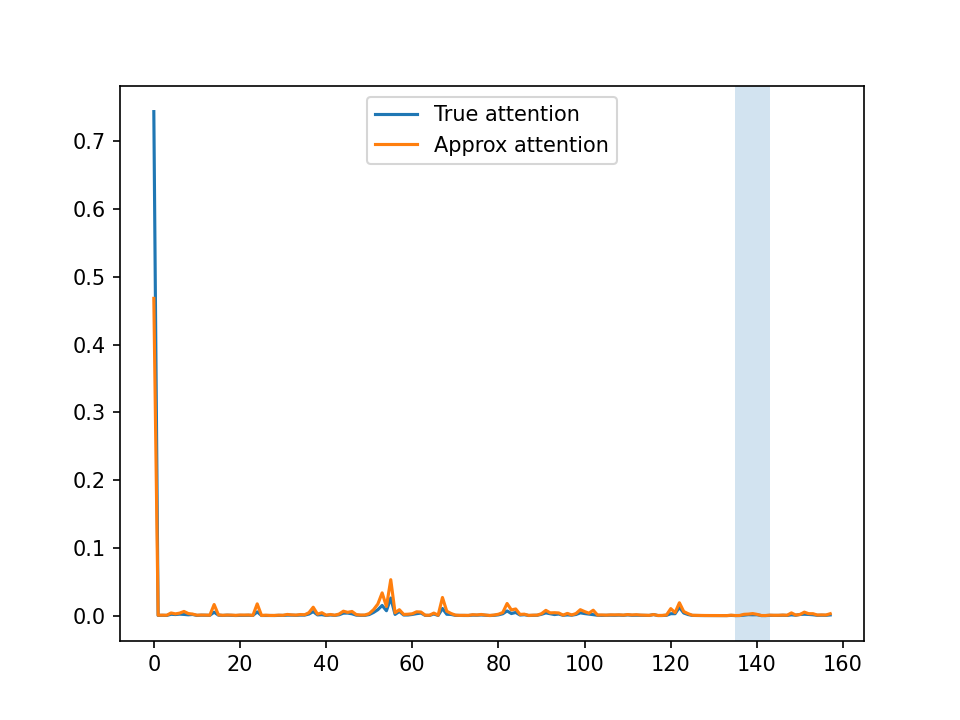
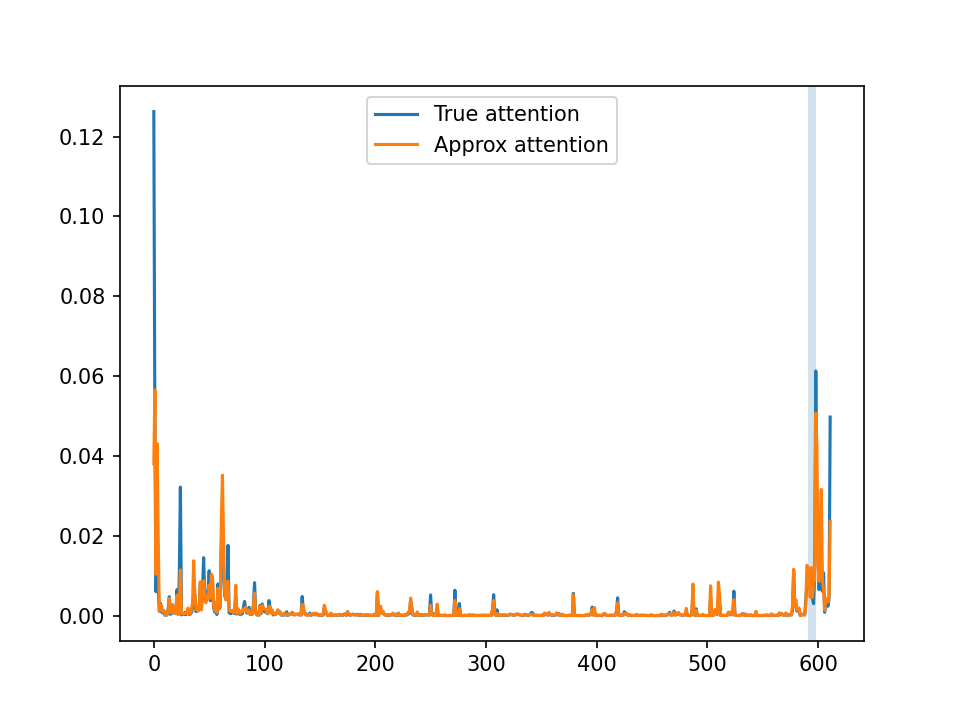
seperated functions from head level eval

diff --git a/src/fagprojekt/head_level_evel_utils.py b/src/fagprojekt/head_level_evel_utils.py
@@ -1,21 +1,8 @@
-# imports 
-import os
-os.environ["CUDA_VISIBLE_DEVICES"] = "2"
-
 from fagprojekt.SVD import do_SVD
-from fagprojekt.model import (
-load_model,
-get_kvq,
-get_messages,
-)
-
-from collections import defaultdict
+from fagprojekt.model import (get_kvq)
 import torch
 import torch.nn.functional as F
 import math
-import matplotlib.pyplot as plt
-
-print("hej")
 
 def find_token_positions(tokenizer, messages, needle):
     # take messages (system + user + assistant format) and converts it into the exact token sequence the model sees
@@ -96,61 +83,74 @@ def method_1_K(key_head, k=50):
 
     return K
 
-#------------------------EVALUATION--------------------------
-# load model only once 
-model,tokenizer = load_model()
+def find_needle_heads(model, tokenizer, messages, needle, top_k=20):
+    # Find the token positions of the needle in the full model input
+    needle_positions = find_token_positions(tokenizer, messages, needle)
 
-# Choose the document containing the needle
-path = f'document-haystack/AIG/AIG_10Pages/Text_TextNeedles/AIG_10Pages_TextNeedles_page_{1}.txt'
+    # Stop if the needle cannot be found, since the attention score would be meaningless
+    if len(needle_positions) == 0:
+        raise ValueError("Needle not found in tokenized input.")
 
-# Create the chat messages
-messages, prompt, needle = get_messages(path, num_tokens=100)
-print(messages)
+    # Store the attention score for each layer/head pair
+    results = []
 
-# Add the true needle answer to the input, so we can inspect attention from the answer tokens (already there?)
-# messages[1]["content"] += " " + needle
+    # Number of transformer layers and KV heads to scan
+    n_layers = len(model.model.layers)
+    n_heads = model.config.num_key_value_heads
 
-# Extract K, V, and Q
-key_head, value_head, query_head = get_kvq(
-    messages,
-    layer_idx=0,
-    head_idx=0,
-    want_print=False,
-    model=model,
-    tokenizer=tokenizer,
-)
+    # Loop through every layer and KV head
+    for layer_idx in range(n_layers):
+        for head_idx in range(n_heads):
 
-# Find the exact token positions where the needle appears in the full model input
-needle_positions = find_token_positions(tokenizer, messages, needle)
-print("Needle:", needle)
-print("Needle positions:", needle_positions)
+            # Extract Q, K and V for the current layer/head
+            key_head, value_head, query_head = get_kvq(
+                messages,
+                layer_idx=layer_idx,
+                head_idx=head_idx,
+                want_print=False,
+                model=model,
+                tokenizer=tokenizer,
+            )
 
-# Approximate the key matrix using SVD method 1
-key_approx = method_1_K(key_head)
+            # Compute attention weights and attention output for this head
+            A, O = get_attention_output(query_head, key_head, value_head)
 
-# Keep V unchanged for this first test, so we only test the effect of approximating K
-value_approx = value_head
+            # Use the last token as the query token
+            q_idx = -1
 
-# Compare true attention/output with approximated attention/output
-A_true, A_approx, O_true, O_approx = evaluate_head(
-    query_head,
-    key_head,
-    value_head,
-    key_approx,
-    value_approx,
-    needle_positions,
-)
+            # Total attention mass placed on all needle tokens
+            needle_attention = A[q_idx, needle_positions].sum().item()
 
-# Plot the attention of the last query token using the true KV-cache
-plt.plot(A_true[-1].detach().cpu(), label="True attention")
+            # Largest single-token attention value for this query
+            max_attention = A[q_idx].max().item()
 
-# Plot the attention of the last query token using the KV-cache with the approximated K
-plt.plot(A_approx[-1].detach().cpu(), label="Approx attention")
+            # Average attention over all tokens for this query
+            mean_attention = A[q_idx].mean().item()
 
-# Highlight where in the plot where the needle tokens are located
-plt.axvspan(needle_positions[0], needle_positions[-1], alpha=0.2)
+            # Save scores for this layer/head
+            results.append({
+                "layer": layer_idx,
+                "head": head_idx,
+                "needle_attention": needle_attention,
+                "max_attention": max_attention,
+                "mean_attention": mean_attention,
+            })
 
-plt.legend()
-plt.savefig("reports/figures/eval.png", dpi=150)
-plt.close()
+    # Sort heads by how much attention they place on the needle
+    results = sorted(
+        results,
+        key=lambda x: x["needle_attention"],
+        reverse=True,
+    )
 
+    # Print the best scoring heads
+    print("\n--- TOP NEEDLE HEADS ---")
+    for r in results[:top_k]:
+        print(
+            f"layer={r['layer']:2d}, head={r['head']:2d} | "
+            f"needle_attn={r['needle_attention']:.6f} | "
+            f"max_attn={r['max_attention']:.6f} | "
+            f"mean_attn={r['mean_attention']:.6f}"
+        )
+
+    return results

diff --git a/src/fagprojekt/head_level_eval.py b/src/fagprojekt/head_level_eval.py
@@ -1,0 +1,87 @@
+# imports 
+import os
+os.environ["CUDA_VISIBLE_DEVICES"] = "2"
+import matplotlib.pyplot as plt
+
+from fagprojekt.model import (load_model, get_kvq, get_messages,)
+from fagprojekt.head_level_evel_utils import(find_token_positions, get_attention_output, evaluate_head, method_1_K, find_needle_heads)
+
+#------------------------VARIABLES---------------------------
+
+
+#------------------------EVALUATION--------------------------
+# load model only once 
+model,tokenizer = load_model()
+
+# Choose the document containing the needle
+path = f'document-haystack/AIG/AIG_10Pages/Text_TextNeedles/AIG_10Pages_TextNeedles_page_{6}.txt'
+
+# Create the chat messages
+messages, prompt, needle = get_messages(path, num_tokens=500)
+print(messages)
+
+
+# Find the exact token positions where the needle appears in the full model input
+needle_positions = find_token_positions(tokenizer, messages, needle)
+print("Needle:", needle)
+print("Needle positions:", needle_positions)
+
+
+# Find best needle head
+needle_heads = find_needle_heads(
+    model,
+    tokenizer,
+    messages,
+    needle,
+    top_k=20,
+)
+
+best = needle_heads[0]
+layer_idx = best["layer"]
+head_idx = best["head"]
+
+print("Best needle head:")
+print(best)
+
+
+# Extract K, V, and Q
+key_head, value_head, query_head = get_kvq(
+    messages,
+    layer_idx=layer_idx,
+    head_idx=head_idx,
+    want_print=False,
+    model=model,
+    tokenizer=tokenizer,
+)
+
+# Approximate the key matrix using SVD method 1
+key_approx = method_1_K(key_head)
+
+# Keep V unchanged for this first test, so we only test the effect of approximating K
+value_approx = value_head
+
+# Compare true attention/output with approximated attention/output
+A_true, A_approx, O_true, O_approx = evaluate_head(
+    query_head,
+    key_head,
+    value_head,
+    key_approx,
+    value_approx,
+    needle_positions,
+)
+
+# Plot the attention of the last query token using the true KV-cache
+plt.plot(A_true[-1].detach().cpu(), label="True attention")
+
+# Plot the attention of the last query token using the KV-cache with the approximated K
+plt.plot(A_approx[-1].detach().cpu(), label="Approx attention")
+
+# Highlight where in the plot where the needle tokens are located
+plt.axvspan(needle_positions[0], needle_positions[-1], alpha=0.2)
+
+plt.legend()
+plt.savefig("reports/figures/eval.png", dpi=150)
+plt.close()
+
+
+
